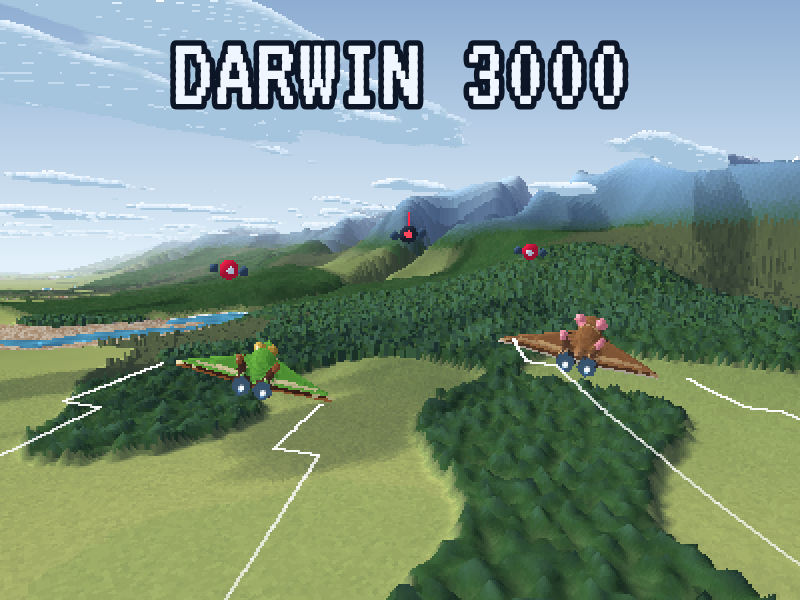
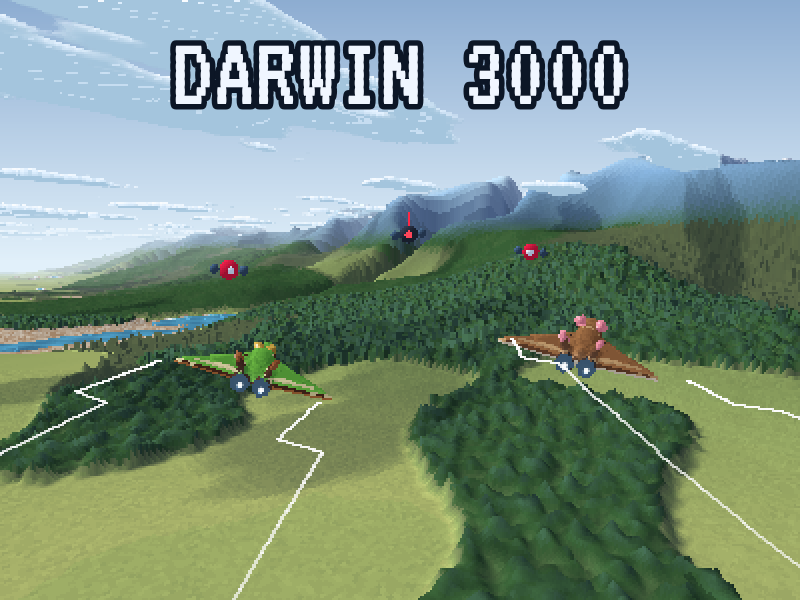
Ranita: piquito un poco más arriba y cabeza algo más ancha

diff --git a/game.js b/game.js
@@ -652,9 +652,9 @@ function partAt(x, y, z, who) {
   if (who > 1) {
     // Darwin's portrait: a flat, wide head drawn out into a pointed snout, golden eyes
     // standing up at its sides
-    if (inEll(d - 7.3, y - 22.5, z - 9.5, 1.5, 1.7, 1.5)) return ENGINE;
-    if (inEll(d - 6, y - 22.5, z - 9, 2.7, 3, 2.7)) return GLASS;
-    return inEll(x, y - 27, z - 5.6, 8.5, 9.5, 5.2) || inEll(x, y - 17, z - 5.2, 4.8, 8, 3.2) || inEll(x, y - 9.5, z - 5.4, 1.8, 3.4, 1.5) ? BODY : 0;
+    if (inEll(d - 8.1, y - 22.5, z - 9.5, 1.5, 1.7, 1.5)) return ENGINE;
+    if (inEll(d - 6.8, y - 22.5, z - 9, 2.7, 3, 2.7)) return GLASS;
+    return inEll(x, y - 27, z - 5.6, 9.7, 9.5, 5.2) || inEll(x, y - 17, z - 5.5, 5.4, 8, 3.2) || inEll(x, y - 9.5, z - 6.7, 1.8, 3.6, 1.5) ? BODY : 0;
   }
   if (who) {
     if (inEll(d - 1.6, y - 8.5, z - 6.4, 1.3, 1.7, 1.3)) return GLASS; // eyes
